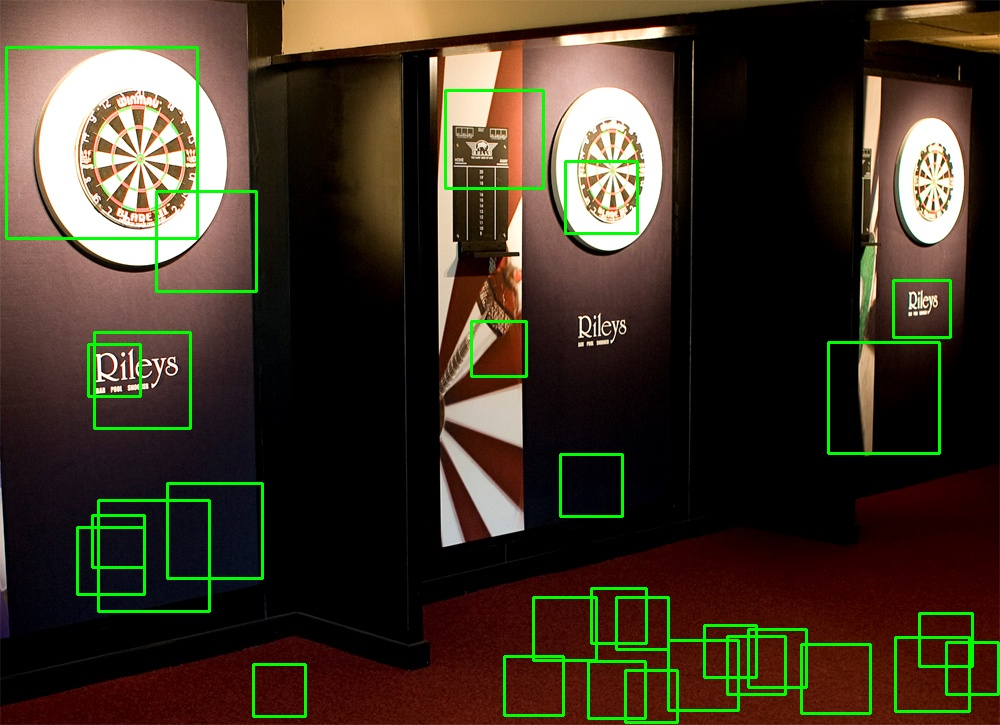
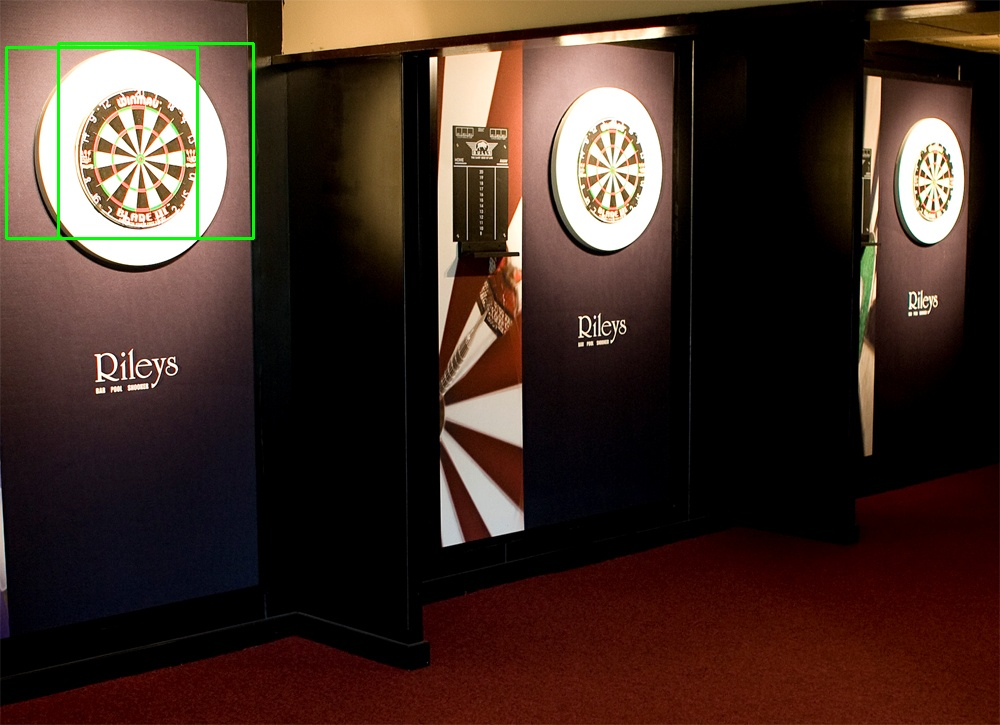
getting there

diff --git a/code/dart.cpp b/code/dart.cpp
@@ -127,7 +127,7 @@ int main(int argc, const char** argv)
   //cout << "Generating Hough Combined Transform..." << endl;
   //houghCombine(h_circ_uc, h_line_uc, h_comb_uc);
 
-  int Ts = 200;
+  int Ts = 150;
   int votes[dartboards.size()];
   weighBoxes(dartboards, votes, h_line_uc, h_circ_uc);
   filterBoxes(dartboards, votes, Ts, frame, filename);
@@ -149,8 +149,9 @@ void filterBoxes(vector<Rect> &dartboards, int votes[], int Ts, Mat &frame,
         Point(dartboards[i].x + dartboards[i].width, 
         dartboards[i].y + dartboards[i].height), Scalar(0, 255, 0), 2);
       count++;
-      cout << "voteofbox " << votes[i] <<endl;
+      
     }
+    cout << "voteofbox " << votes[i] <<endl;
   }
   imwrite("out/" + filename + "_detected.jpg", frame);
   cout << "\nFiltered count: " << count << "\n" << endl;
@@ -164,15 +165,15 @@ void weighBoxes(vector<Rect> &dartboards, int votes[], Mat &hough_line, Mat &hou
   // Draw box around dartboards found
   //bool isDart = false;
   //int count = 0;
-  int maxCirc = 0;
+  int avgCirc = 0;
   int maxLine = 0;
-  int weightCirc = 1;
-  int weightLine = 1;
+  int weightCirc = 2;
+  int weightLine = 3;
   int pixNum = 0; 
   
 	for(int i = 0; i < dartboards.size(); i++)
 	{
-    pixNum = (dartboards[i].height*dartboards[i].width)/16; //central ninth of box
+    pixNum = (dartboards[i].height*dartboards[i].width)/4; //central ninth of box
     for(int y = dartboards[i].y +(dartboards[i].height/4); y < dartboards[i].y 
       +(dartboards[i].height * 3/4); y++)
     {
@@ -181,14 +182,14 @@ void weighBoxes(vector<Rect> &dartboards, int votes[], Mat &hough_line, Mat &hou
       {
         if(maxLine < hough_line.at<uchar>(y,x) )
           maxLine = hough_line.at<uchar>(y,x);
-        if(maxCirc < hough_circ.at<uchar>(y,x) )
-          maxCirc = hough_circ.at<uchar>(y,x);
-        //avgCirc += hough_circ.at<uchar>(y,x);
+        //if(maxCirc < hough_circ.at<uchar>(y,x) )
+          //maxCirc = hough_circ.at<uchar>(y,x);
+        avgCirc += hough_circ.at<uchar>(y,x);
       }
     }
-    //avgCirc = avgCirc/pixNum;
-    votes[i] = (maxLine*weightLine + maxCirc*weightCirc)/(weightCirc + weightLine);
-    maxCirc = 0;
+    avgCirc = avgCirc/pixNum;
+    votes[i] = (maxLine*weightLine + avgCirc*weightCirc)/(weightCirc + weightLine);
+    avgCirc = 0;
     maxLine = 0;
   }
 }
